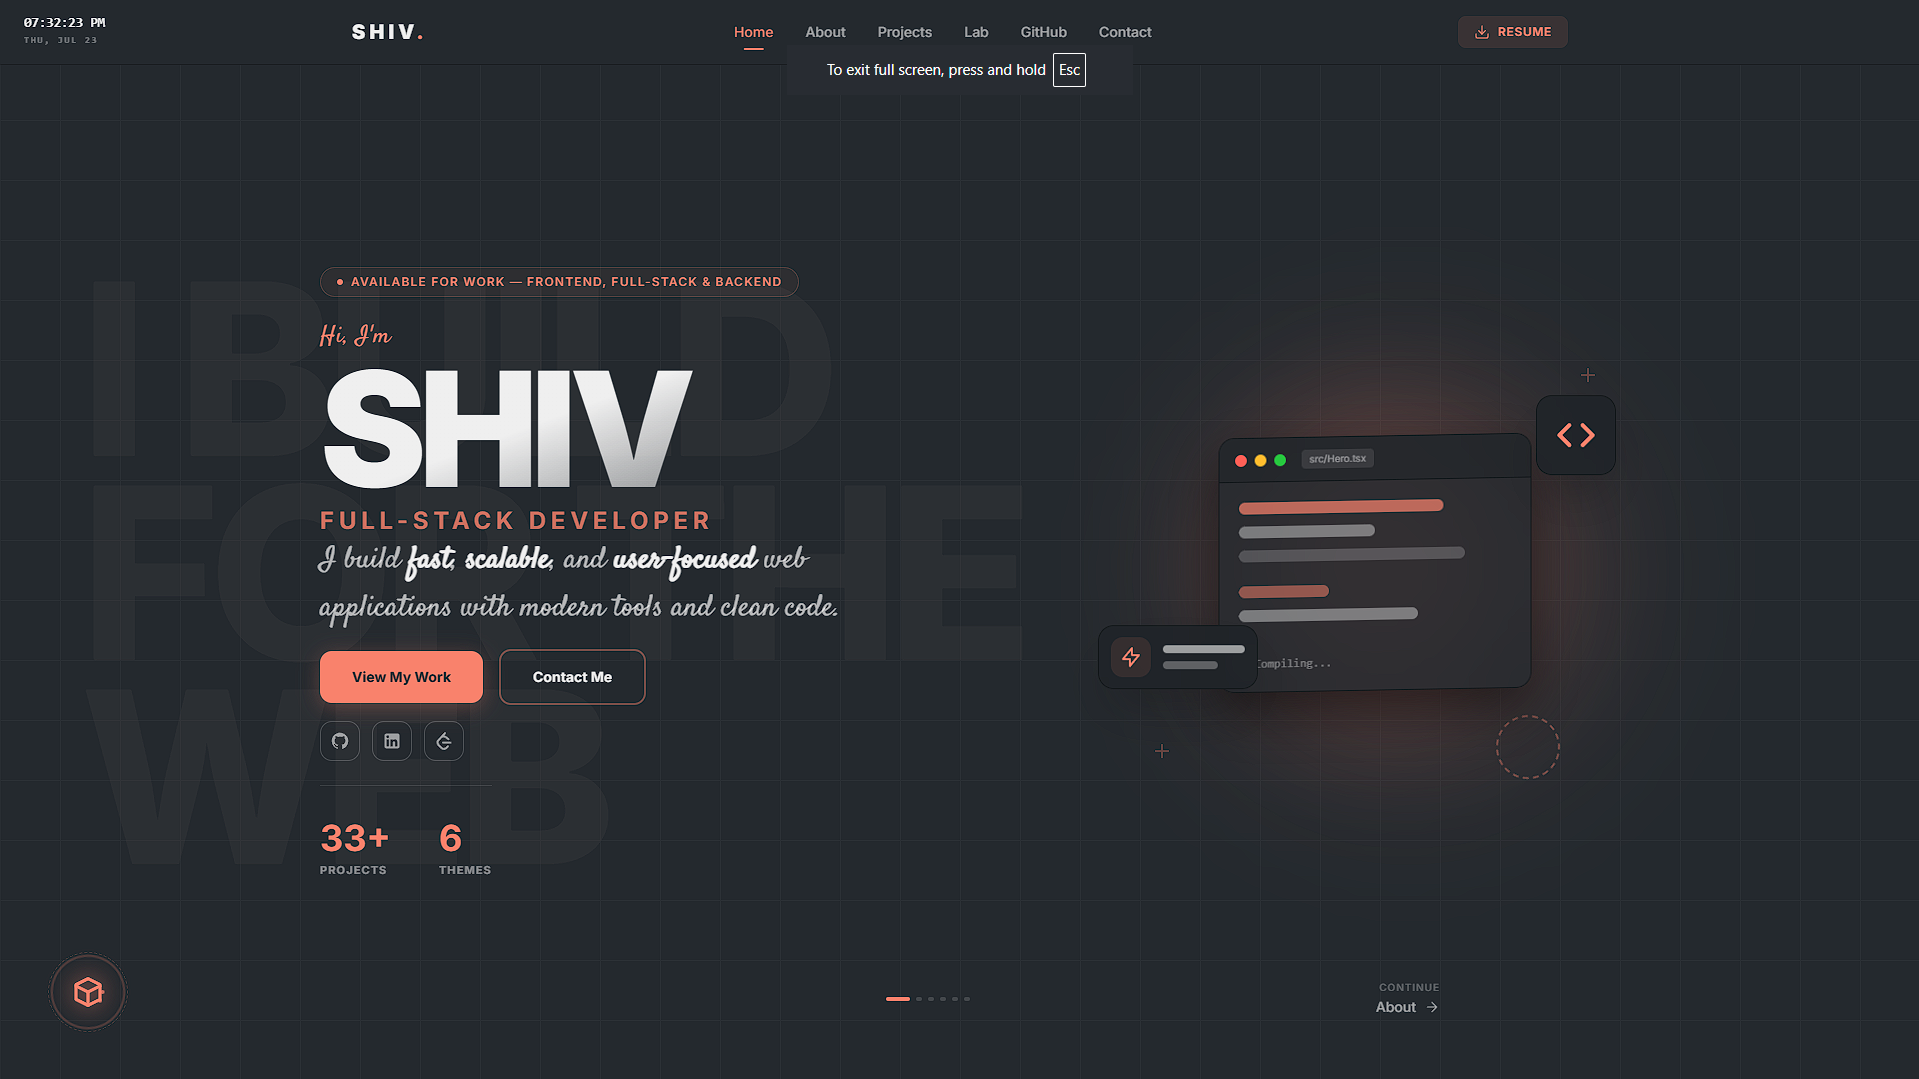
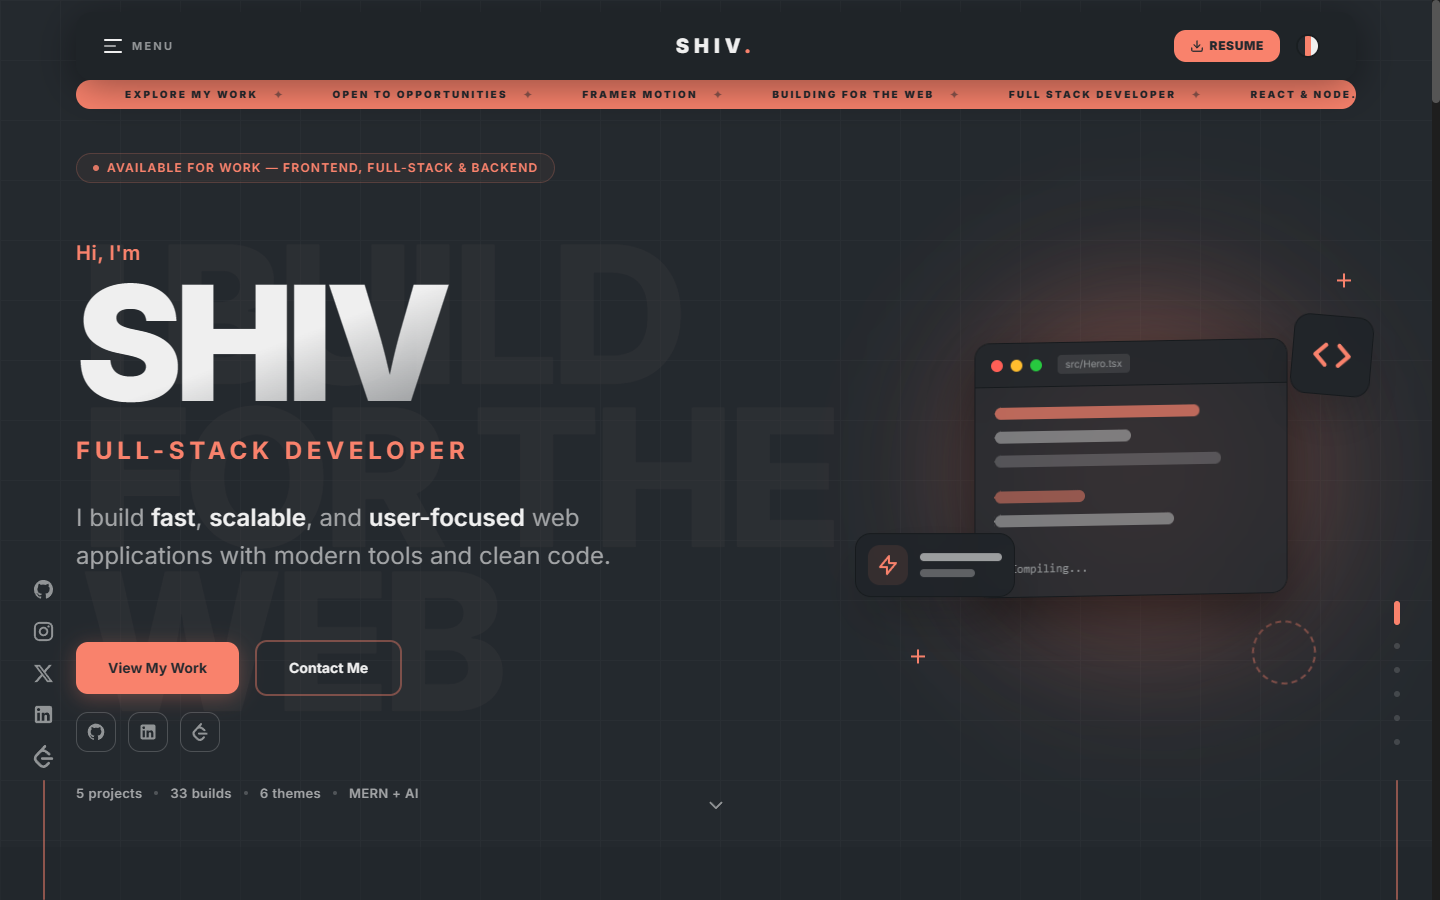
updated porftolio case study, added all the updates i did this last few weeks, lenis, netlify functions, single page home and resend for email contact form

diff --git a/src/features/projects/PortfolioDetail.jsx b/src/features/projects/PortfolioDetail.jsx
@@ -1,3 +1,4 @@
+/* eslint-disable react/prop-types */
 import { useState, useEffect, useCallback } from "react";
 import { Link } from "react-router-dom";
 import { motion, AnimatePresence } from "framer-motion";
@@ -29,12 +30,14 @@ const stagger = {
 
 const techStack = [
   { name: "React 18",            icon: "logos:react",           note: "Component-based UI library" },
-  { name: "Vite",                icon: "logos:vitejs",          note: "Build tool with instant HMR" },
-  { name: "Tailwind CSS 4",      icon: "logos:tailwindcss-icon",note: "Utility-first styling with CSS variables" },
-  { name: "Framer Motion",       icon: "logos:framer",          note: "Cinematic animations & transitions" },
-  { name: "React Router v6",     icon: "logos:react-router",    note: "Client-side page routing" },
+  { name: "Vite 8 (rolldown)",   icon: "logos:vitejs",          note: "Build tool with instant HMR" },
+  { name: "Tailwind CSS 4",      icon: "logos:tailwindcss-icon",note: "@theme inline tokens — no config file, no plugin bridge" },
+  { name: "Framer Motion",       icon: "logos:framer",          note: "Cinematic animations, shared tokens in lib/motion.js" },
+  { name: "Lenis",               icon: "lucide:mouse-pointer-2",note: "Smooth scroll, re-measured on every route change" },
+  { name: "React Router v6",     icon: "logos:react-router",    note: "Route-level code splitting via React.lazy + Suspense" },
   { name: "Context API",         icon: "logos:react",           note: "ThemeContext + GithubContext" },
-  { name: "GitHub API",          icon: "mdi:github",            note: "Live repos, stats & contribution graph" },
+  { name: "GitHub API",          icon: "mdi:github",            note: "Live repos, stats & an interactive contribution graph" },
+  { name: "vite-imagetools",     icon: "lucide:image",          note: "Build-time WebP conversion, zero call-site changes" },
   { name: "Netlify Functions",   icon: "logos:netlify",         note: "Serverless contact form backend" },
   { name: "Resend",              icon: "lucide:mail",           note: "Transactional email API" },
   { name: "react-helmet-async",  icon: "lucide:globe",          note: "Per-page SEO head management" },
@@ -42,53 +45,65 @@ const techStack = [
 
 const features = [
   {
+    icon: "lucide:layout-list",
+    title: "One Scroll, Every Answer",
+    desc: "Home used to be a single-viewport hero with nowhere to go. It's now a continuous scroll through six sections — hero, About, Work, Build Archive, GitHub, Contact — each a real summary of its own deep-dive page, not a teaser that just repeats the title. A vertical section rail (desktop) tracks scroll position via IntersectionObserver and jumps to any section on click.",
+  },
+  {
+    icon: "lucide:git-commit-horizontal",
+    title: "A Contribution Calendar That's Actually Interactive",
+    desc: "Hover any day for a glassmorphic tooltip with the exact count and date; click a day to open it on GitHub itself. The one number the REST API can't provide — a contributions total — isn't faked: a MutationObserver reads it back out of react-github-calendar's own rendered footer instead of firing a second API call.",
+  },
+  {
+    icon: "lucide:copy",
+    title: "Copy-to-Clipboard, Not Just mailto:",
+    desc: "mailto: links don't reliably open a compose window on every browser/OS. A shared useCopyToClipboard hook puts a one-click copy affordance on every email address on the site — Footer, nav mega-menu, sidebar, About, Contact — so reaching out never depends on the visitor's mail client being configured.",
+  },
+  {
     icon: "lucide:palette",
-    title: "6+ Dynamic Themes",
-    desc: "GitHub Dark, Dracula, Nord, Ayu, Night Owl, and VS Code themes — each applied instantly via CSS custom properties (--accentColor, --textColor, --mainBg, etc.) without a page reload. tw-colors bridges Tailwind utility classes to the CSS variables.",
+    title: "6 Dynamic Themes, Native Tailwind v4",
+    desc: "GitHub Dark, Dracula, Nord, Ayu (×2), and Night Owl — applied instantly via CSS custom properties with zero page reload. No plugin bridge: Tailwind v4's own @theme inline block maps every token directly, verified for WCAG AA contrast by sampling rendered pixels in all six themes rather than trusting computed color strings.",
   },
   {
     icon: "lucide:github",
-    title: "Live GitHub Dashboard",
-    desc: "A centralized GithubContext fetches the user profile and all repos once on mount, shared by the GitHub dashboard and the home page section via useContext — no duplicate API calls. Drives the contribution graph, pinned repos, and live stats.",
-  },
-  {
-    icon: "lucide:layout-grid",
-    title: "Bento Skills Grid",
-    desc: "An asymmetric bento grid layout for the tech stack with custom col-span and row-span per skill card. Mobile-specific overrides fix layout gaps that appear on 3-column grids on small screens.",
+    title: "One GitHub Fetch, Two Consumers",
+    desc: "GithubContext fetches the user profile and all repos once on mount. Both the home page's GitHub section and the full /github dashboard read from that same cached state via useGithub() — the calendar, language mix, and recent-repos list all render from data that was only ever requested once per visit.",
   },
   {
     icon: "lucide:mail",
-    title: "Serverless Contact Form",
-    desc: "Contact form submits to a Netlify Function that calls the Resend API — no client-side API key exposure, no OAuth token expiry issues. React Hook Form handles validation with real-time error feedback.",
+    title: "One Contact Form, Two Mounts",
+    desc: "The same ContactForm component is embedded inline on home's Contact section and stands alone at /contact — never forked into two versions that could drift apart. Submits to a Netlify Function that calls Resend server-side, so the API key never reaches the browser.",
   },
   {
     icon: "lucide:file-text",
     title: "Project Case Studies",
-    desc: "Dedicated case study pages for every major project — architecture breakdowns, challenge/solution writeups, and tech stack grids sourced from the actual project READMEs. Linked directly from each project card.",
+    desc: "Dedicated case study pages for every major project — architecture breakdowns, challenge/solution writeups, and tech stack grids. /projects itself now redirects to the home page's Work section, since keeping both meant maintaining one design twice.",
   },
   {
     icon: "lucide:flask-conical",
     title: "The Build Archive",
-    desc: "A dedicated /frontend-lab page holding every graded build — machine-coding challenges, UI components, and small apps that don't fit neatly into a project card.",
-  },
-  {
-    icon: "lucide:database",
-    title: "Centralized Config",
-    desc: "All personal data (name, social links, stats, pinned repos, skill lists) lives in src/data/config.js — a single source of truth that updates every page automatically. No more hunting for a LinkedIn URL across 5 files.",
-  },
-  {
-    icon: "lucide:zap",
-    title: "Cinematic Animations",
-    desc: "Staggered entry animations on every page, floating illustration on the hero, scroll-triggered section reveals, and micro-interactions on buttons and cards — all via Framer Motion with spring physics.",
+    desc: "33 machine-coding challenges and small builds at /frontend-lab, filterable by level and category. On home, the same data renders as a full-bleed, dual counter-scrolling marquee instead of a static grid — a texture nothing else on the page has.",
   },
 ];
 
 const challenges = [
   {
-    icon: "lucide:palette",
-    problem: "6 themes that all need to work with Tailwind utility classes",
+    icon: "lucide:layers",
+    problem: "A paragraph's margin was silently zero — space-y-* just didn't work on it",
     solution:
-      "Each theme defines CSS custom properties on :root (--accentColor, --textColor, --mainBg, --articleBg, --explorerBorder, etc.). Tailwind's tw-colors plugin maps these to utility classes like text-accentColor and bg-mainBg. Switching theme applies a new class to the root element — every Tailwind utility updates instantly via CSS variable resolution, no class regeneration needed.",
+      "The culprit was a plain, unlayered `h1,h2,p{margin:0}` reset sitting outside any @layer block in index.css. Tailwind wraps everything in @layer theme, base, components, utilities — but a rule written outside that stack sits above the whole thing regardless of specificity, so it silently beat every space-y-* utility trying to set a gap. This exact trap hit three separate features before the pattern was recognized (a font-family rule blocking custom font utilities for months; a vendored library's own display:flex beating a hidden class). Fix: wrap the global resets in @layer base so they lose to utilities the way every one of them was written assuming.",
+  },
+  {
+    icon: "lucide:move-horizontal",
+    problem: "Adding a copy button to a contact row caused 47px of page-wide horizontal overflow",
+    solution:
+      "The button itself wasn't the bug — it just finally exposed one. Flex and grid items default to min-width: auto, meaning \"never shrink below your content's natural size,\" which silently overrides truncate on a descendant unless the item itself also carries min-w-0. The row had fit without needing to shrink for months; the moment a new button gave it one more thing to lay out, the whole row grew past its grid track. Fixed by adding min-w-0 at the actual constraining ancestor — found by checking getBoundingClientRect() up the tree, since it's rarely the element you'd guess first.",
+  },
+  {
+    icon: "lucide:crosshair",
+    problem: "A hover tooltip on the contribution calendar kept landing in the wrong place, or not at all",
+    solution:
+      "The calendar renders inside cards with overflow-hidden and inside a scroll-reveal motion.div that leaves a resting transform on itself even after the animation finishes — either one silently breaks position:fixed math, because a transformed ancestor becomes the tooltip's containing block instead of the viewport. Portalling the tooltip to document.body via createPortal sidesteps both: it's no longer a descendant of either problem ancestor, so getBoundingClientRect()-based positioning against the viewport just works.",
   },
   {
     icon: "lucide:mail",
@@ -98,17 +113,17 @@ const challenges = [
   },
   {
     icon: "lucide:github",
-    problem: "GitHub API called three times — once per page that needed user data",
+    problem: "GitHub API called multiple times — once per page that needed user data",
     solution:
-      "GithubContext wraps the entire app and fetches user + repos once in a useEffect. Both consumers — the Github dashboard and the home page's GitHub section — call useGithub() to read from the same cached state, so the data is fetched once per visit rather than per view. The context handles loading and error states centrally, so each consumer renders a skeleton or a recovery message without repeating that logic.",
+      "GithubContext wraps the entire app and fetches user + repos once in a useEffect. Every consumer — the Github dashboard and the home page's GitHub section — calls useGithub() to read from the same cached state, so the data is fetched once per visit rather than per view.",
   },
 ];
 
 const desktopScreenshots = [
-  { src: aboutImg,    alt: "Portfolio about page",         label: "About" },
-  { src: projectsImg, alt: "Portfolio projects page",      label: "Projects" },
+  { src: aboutImg,    alt: "Portfolio about page",                                   label: "About" },
+  { src: projectsImg, alt: "Home's Work section — the editorial project list",       label: "Work" },
   { src: labImg,      alt: "Portfolio build archive page", label: "Build Archive" },
-  { src: githubImg,   alt: "Portfolio GitHub dashboard",   label: "GitHub" },
+  { src: githubImg,   alt: "GitHub section with the interactive contribution calendar tooltip open", label: "GitHub" },
   { src: contactImg,  alt: "Portfolio contact page",       label: "Contact" },
 ];
 
@@ -173,9 +188,12 @@ export default function PortfolioDetail() {
           </motion.h1>
 
           <motion.p variants={fadeUp} className="text-textMuted mb-6 max-w-2xl text-lg leading-relaxed">
-            A cinematic, motion-heavy developer portfolio with 6 dynamic themes, a live GitHub
-            dashboard, serverless contact form, centralized data config, and per-project case study
-            pages — built with React 18, Tailwind CSS 4, and Framer Motion.
+            A single-scroll developer portfolio: one home page answers every question — who I am,
+            what I&apos;ve shipped, what I&apos;m building daily, how to reach me — at summary
+            depth, and each section&apos;s door leads to a page that goes deeper. 6 dynamic themes,
+            a live GitHub dashboard with a genuinely interactive contribution calendar,
+            copy-to-clipboard contact everywhere, and a serverless form embedded directly on the
+            page you&apos;re already on — built with React 18, Tailwind CSS 4, and Framer Motion.
           </motion.p>
 
           <motion.div variants={fadeUp} className="mb-8 flex flex-wrap gap-2">
@@ -205,15 +223,19 @@ export default function PortfolioDetail() {
         {/* ── Overview ── */}
         <Section title="Overview">
           <p className="text-textSecondary leading-relaxed">
-            This portfolio started as a simple project showcase and evolved into a full{" "}
-            <strong className="text-textColor">design system and architecture exercise</strong>.
-            The goal was to build something that felt premium — cinematic animations, a theming
-            system that actually works across every component, a live GitHub integration, and a
-            contact form that doesn&apos;t break when an OAuth token expires. Every design decision
-            was intentional: the asymmetric bento grid, the staggered Framer Motion entries, the
-            single config file that drives all personal data across the site. It&apos;s the project
-            I keep coming back to as skills improve — and the one that shows how I think about
-            architecture, not just UI.
+            This portfolio started as a simple project showcase and has since gone through a full{" "}
+            <strong className="text-textColor">redesign of its own governing idea</strong>: home
+            used to be a single-viewport hero with a &quot;view my work&quot; button as its only
+            job. It&apos;s now a continuous single scroll that answers every real question —
+            identity, work, daily activity, how to get in touch — at summary depth, with each
+            section promising something genuinely deeper on the page it leads to, never just a
+            smaller copy of what&apos;s already on screen. Underneath that: a theming system built
+            on Tailwind v4&apos;s native tokens (not a plugin bridge), a GitHub integration with a
+            contribution calendar you can actually hover and click through, and a contact form
+            that&apos;s the same component whether you&apos;re looking at it inline on home or on
+            its own page. It&apos;s the project I keep coming back to as skills improve — and the
+            one that shows how I think about
+            architecture and craft, not just UI.
           </p>
         </Section>
 
@@ -221,16 +243,18 @@ export default function PortfolioDetail() {
         <Section title="Problem & Goal">
           <div className="grid gap-4 sm:grid-cols-2">
             <Card icon="lucide:alert-circle" label="The Problem">
-              Most portfolio sites are static, single-themed, and fall apart the moment the contact
-              form&apos;s auth token expires or the GitHub widget makes three separate API calls.
-              Data is duplicated across files — change a social link in one place and two others
-              still show the old URL.
+              Most portfolio sites make a visitor choose between a fast scan and real depth — either
+              a thin single-page summary with nothing to back it up, or a maze of separate pages
+              that bury the actual work three clicks deep. Add a contact form whose auth token can
+              silently expire, and a GitHub widget re-fetching the same data on every page, and the
+              site stops feeling like something a full-stack developer actually built.
             </Card>
             <Card icon="lucide:target" label="The Goal">
-              Build a portfolio that functions like a real product: a CSS-variable theme system
-              that scales to N themes, a single config file as the source of truth for all personal
-              data, a serverless contact backend that can&apos;t expire, and live GitHub data
-              fetched once and shared via context — not three times across three pages.
+              One home page that answers every question at summary depth in a single scroll, where
+              each section&apos;s door promises real depth rather than repeating itself — backed by a
+              theme system that scales to N themes on native tokens, a serverless contact backend
+              that can&apos;t expire, and live GitHub data fetched once and shared via context
+              across every page that needs it.
             </Card>
           </div>
         </Section>
@@ -264,12 +288,13 @@ export default function PortfolioDetail() {
           <div className="border-explorerBorder bg-articleBg rounded-2xl border p-6">
             <div className="flex flex-col gap-3">
               {[
-                { step: "01", label: "src/data/config.js", detail: "All personal info, social links, stats, pinned repos, skill lists — one file, referenced everywhere" },
-                { step: "02", label: "ThemeContext", detail: "Holds active theme name, applies CSS custom property overrides on :root — Tailwind reads them via tw-colors" },
-                { step: "03", label: "GithubContext", detail: "Fetches GitHub user + repos once on mount, exposed via the useGithub() hook to the Github dashboard and the home page section" },
-                { step: "04", label: "Feature Modules", detail: "Each page lives in src/features/<name>/ with its own components, data, and styles — no cross-page imports" },
-                { step: "05", label: "Netlify Function", detail: "netlify/functions/contact.js validates the form POST server-side and calls Resend — API key never reaches the browser" },
-                { step: "06", label: "React Router v6", detail: "Client-side routing with nested routes under a Main layout — project case study routes at /projects/:slug" },
+                { step: "01", label: "MainScrollPage.jsx", detail: "Assembles six <section id=\"...\"> blocks — hero, About, Work, Build Archive, GitHub, Contact — and scrolls to one on a /#hash deep link" },
+                { step: "02", label: "src/data/config.js", detail: "All personal info, social links, skill groups, pinned repos — one file, referenced everywhere" },
+                { step: "03", label: "ThemeContext", detail: "Holds active theme name, applies a theme-X class to the root — Tailwind v4's own @theme inline block resolves every token, no plugin needed" },
+                { step: "04", label: "GithubContext", detail: "Fetches GitHub user + repos once on mount, exposed via useGithub() to the Github dashboard and the home page section — same cached state, one fetch per visit" },
+                { step: "05", label: "hooks/ + lib/motion.js", detail: "useActiveSection (IntersectionObserver-driven scroll tracking) and useCopyToClipboard, plus shared Framer Motion tokens — replacing what used to be per-page copy-pasted variants" },
+                { step: "06", label: "Netlify Function", detail: "netlify/functions/contact.js validates the form POST server-side and calls Resend — API key never reaches the browser" },
+                { step: "07", label: "React Router v6", detail: "Home stays eager; every other route is React.lazy + Suspense. /projects redirects to /#projects — the retired page's exact UI now lives there instead" },
               ].map(({ step, label, detail }) => (
                 <div key={step} className="flex items-start gap-4">
                   <span className="text-accentColor w-8 shrink-0 font-mono text-xs font-bold">{step}</span>
@@ -378,12 +403,14 @@ export default function PortfolioDetail() {
         <Section title="What I Learned">
           <div className="grid gap-3 sm:grid-cols-2 md:grid-cols-3">
             {[
-              { icon: "lucide:palette",     text: "CSS custom property theming — how to bridge runtime variables to a utility-class system like Tailwind" },
+              { icon: "lucide:layers",      text: "CSS cascade layers aren't optional bookkeeping — an unlayered rule silently outranks every Tailwind utility regardless of specificity, and it cost real hours three separate times before the pattern was obvious" },
+              { icon: "lucide:move-horizontal", text: "Flex/grid items default to min-width: auto — a row can look fine for months and only reveal a missing min-w-0 the day something finally needs to shrink" },
+              { icon: "lucide:aperture",    text: "position: fixed math breaks the moment any ancestor has a transform or overflow-hidden — portalling to document.body is the reliable fix for anything that must escape a card" },
               { icon: "lucide:database",    text: "The config-as-source-of-truth pattern — one change propagates everywhere, eliminating stale data" },
               { icon: "lucide:share-2",     text: "React Context as a fetch cache — fetching once and sharing the result is always better than fetching per page" },
+              { icon: "lucide:eye",         text: "IntersectionObserver for scroll-position tracking beats scroll-event math — no throttling, no manual rect comparisons, and it's what both the section rail and bottom nav are built on" },
               { icon: "lucide:server",      text: "Serverless functions for frontend backends — never expose API keys client-side, even for 'simple' contact forms" },
               { icon: "lucide:zap",         text: "Framer Motion's stagger and viewport patterns for cinematic scroll reveals without layout jank" },
-              { icon: "lucide:layout-grid", text: "Bento grid design — planning col-span and row-span layouts that stay non-broken across breakpoints" },
             ].map((item) => (
               <div key={item.text} className="border-explorerBorder bg-articleBg flex items-start gap-3 rounded-xl border p-4">
                 <div className="text-accentColor mt-0.5 shrink-0"><Icon icon={item.icon} width="16" /></div>
